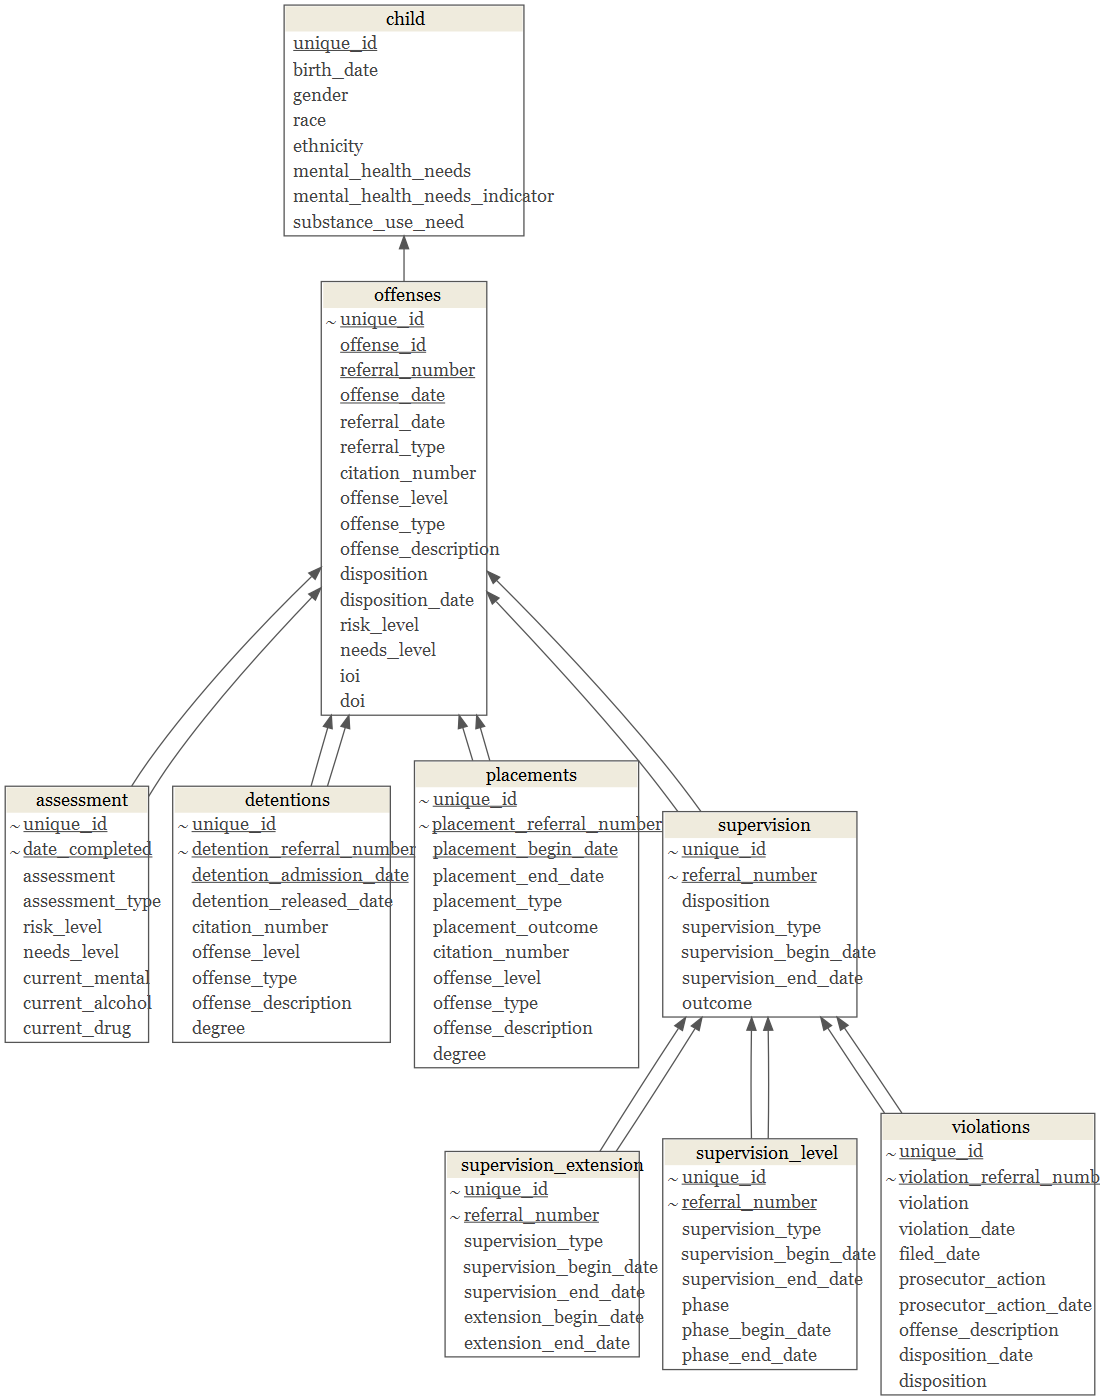
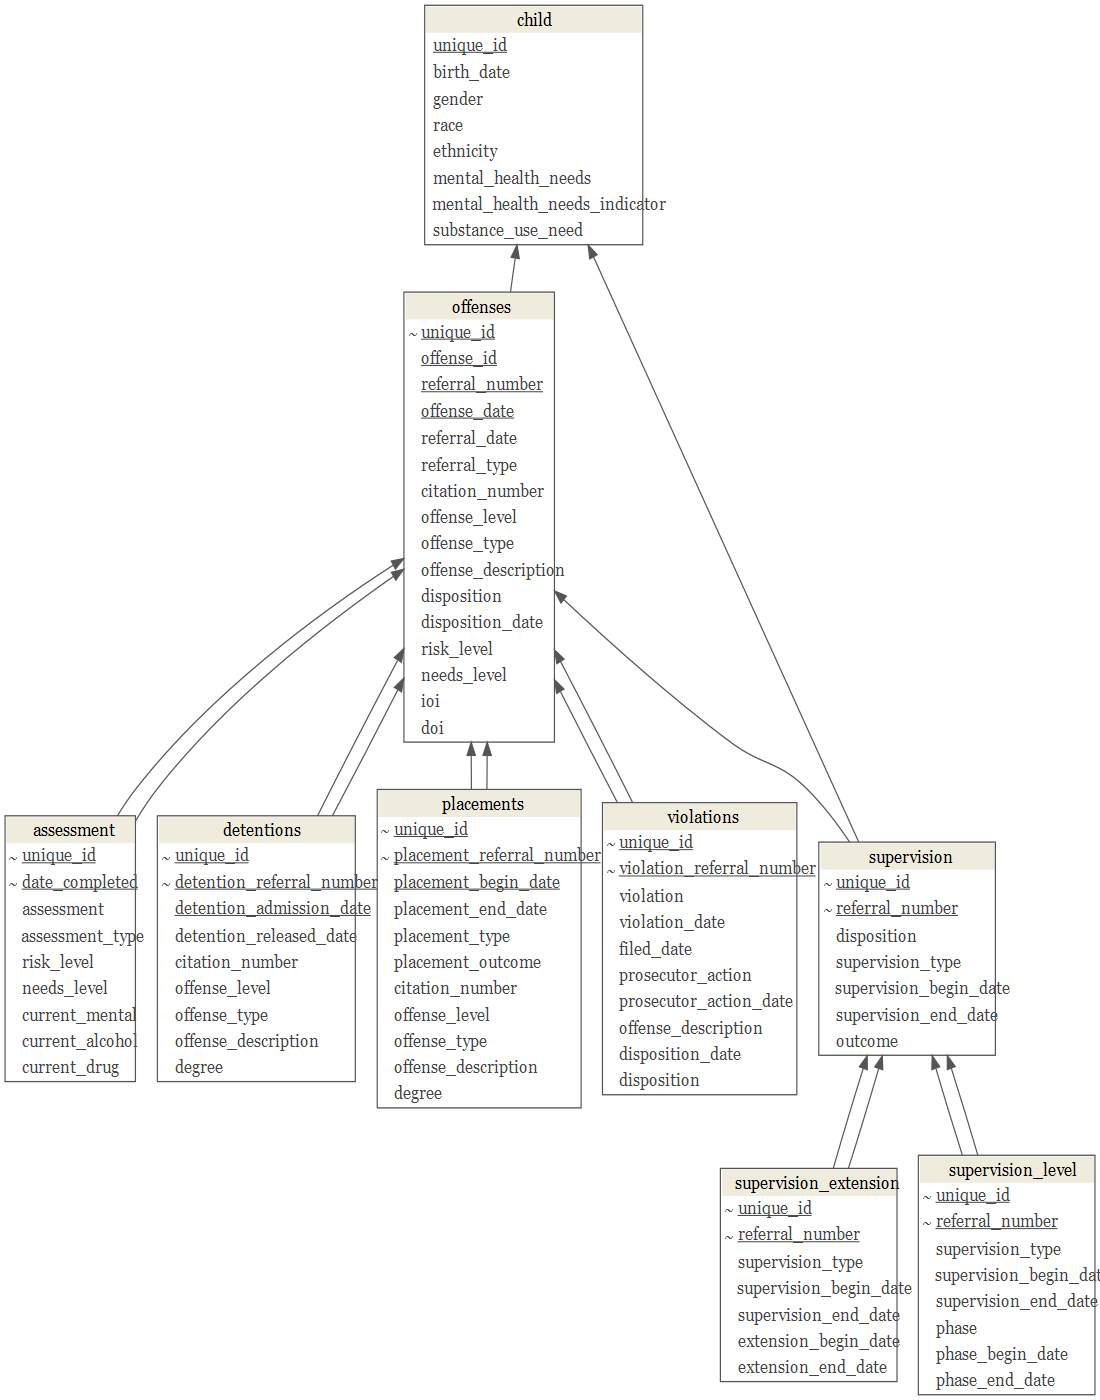
updated analytic file build syntax

diff --git a/_site/jj_av_dallas_create_analytic_files.html b/_site/jj_av_dallas_create_analytic_files.html
@@ -192,7 +192,8 @@ code span.wa { color: #60a0b0; font-weight: bold; font-style: italic; } /* Warni
   <li><a href="#join-2.-join-of-supervision_child_join_1-and-supervision_extension_clean" id="toc-join-2.-join-of-supervision_child_join_1-and-supervision_extension_clean" class="nav-link" data-scroll-target="#join-2.-join-of-supervision_child_join_1-and-supervision_extension_clean">Join 2. Join of <code>supervision_child_join_1</code> and <code>supervision_extension_clean</code></a></li>
   <li><a href="#join-3.-join-of-supervision_child_join_2-and-supervision_level_clean" id="toc-join-3.-join-of-supervision_child_join_2-and-supervision_level_clean" class="nav-link" data-scroll-target="#join-3.-join-of-supervision_child_join_2-and-supervision_level_clean">Join 3. Join of <code>supervision_child_join_2</code> and <code>supervision_level_clean</code></a></li>
   <li><a href="#join-4.-join-of-supervision_child_join_3-and-offenses_clean_de_dup" id="toc-join-4.-join-of-supervision_child_join_3-and-offenses_clean_de_dup" class="nav-link" data-scroll-target="#join-4.-join-of-supervision_child_join_3-and-offenses_clean_de_dup">Join 4. Join of <code>supervision_child_join_3</code> and <code>offenses_clean_de_dup</code></a></li>
-  <li><a href="#join-4.-join-of-supervision_child_join_4-and-violations_clean" id="toc-join-4.-join-of-supervision_child_join_4-and-violations_clean" class="nav-link" data-scroll-target="#join-4.-join-of-supervision_child_join_4-and-violations_clean">Join 4. Join of <code>supervision_child_join_4</code> and <code>violations_clean</code></a></li>
+  <li><a href="#join-4.-join-of-supervision_child_join_offenses_4-and-violations_clean" id="toc-join-4.-join-of-supervision_child_join_offenses_4-and-violations_clean" class="nav-link" data-scroll-target="#join-4.-join-of-supervision_child_join_offenses_4-and-violations_clean">Join 4. Join of <code>supervision_child_join_offenses_4</code> and <code>violations_clean</code></a></li>
+  <li><a href="#join-5.-join-of-supervision_child_join_offenses_violatons_5-and-detentions_clean" id="toc-join-5.-join-of-supervision_child_join_offenses_violatons_5-and-detentions_clean" class="nav-link" data-scroll-target="#join-5.-join-of-supervision_child_join_offenses_violatons_5-and-detentions_clean">Join 5. Join of <code>supervision_child_join_offenses_violatons_5</code> and <code>detentions_clean</code></a></li>
   </ul></li>
   </ul>
 </nav>
@@ -787,14 +788,14 @@ code span.wa { color: #60a0b0; font-weight: bold; font-style: italic; } /* Warni
 </div>
 <p><br><br></p>
 </section>
-<section id="join-4.-join-of-supervision_child_join_4-and-violations_clean" class="level2">
-<h2 class="anchored" data-anchor-id="join-4.-join-of-supervision_child_join_4-and-violations_clean">Join 4. Join of <code>supervision_child_join_4</code> and <code>violations_clean</code></h2>
+<section id="join-4.-join-of-supervision_child_join_offenses_4-and-violations_clean" class="level2">
+<h2 class="anchored" data-anchor-id="join-4.-join-of-supervision_child_join_offenses_4-and-violations_clean">Join 4. Join of <code>supervision_child_join_offenses_4</code> and <code>violations_clean</code></h2>
 <p>Using a left join only joins offense records that led to supervision/disposition to supervision. Later, should I also join just by unique_id to capture offense records which occurred during supervision? The offense file is already de-duped by referral – keeping the most serious offense – so the file will still be unique by referral, supervision period, supervision extension, and supervision level</p>
 <p><strong>Logic to double check:</strong> only keeping violation records where the violation_date&gt;=supervision_begin_date &amp; violation_date&lt;=supervision_end_date</p>
 <div class="cell">
 <div class="sourceCode cell-code" id="cb86"><pre class="sourceCode r code-with-copy"><code class="sourceCode r"><span id="cb86-1"><a href="#cb86-1" aria-hidden="true" tabindex="-1"></a><span class="do">### left join of violations_clean file to supervision_child_join_3 file </span></span>
-<span id="cb86-2"><a href="#cb86-2" aria-hidden="true" tabindex="-1"></a>supervision_child_join_offenses_4 <span class="ot">&lt;-</span> </span>
-<span id="cb86-3"><a href="#cb86-3" aria-hidden="true" tabindex="-1"></a>  <span class="fu">left_join</span>(supervision_child_join_3,</span>
+<span id="cb86-2"><a href="#cb86-2" aria-hidden="true" tabindex="-1"></a>supervision_child_join_offenses_violatons_5 <span class="ot">&lt;-</span> </span>
+<span id="cb86-3"><a href="#cb86-3" aria-hidden="true" tabindex="-1"></a>  <span class="fu">left_join</span>(supervision_child_join_offenses_4,</span>
 <span id="cb86-4"><a href="#cb86-4" aria-hidden="true" tabindex="-1"></a>            violations_clean,</span>
 <span id="cb86-5"><a href="#cb86-5" aria-hidden="true" tabindex="-1"></a>            <span class="at">by =</span> <span class="fu">c</span>(<span class="st">"unique_id"</span>)) <span class="sc">%&gt;%</span> <span class="do">### this is a many to many join so there are now lots of records (all violations joining to all supervisions/supervision extensions/supervision levels)</span></span>
 <span id="cb86-6"><a href="#cb86-6" aria-hidden="true" tabindex="-1"></a>  <span class="do">### now we need to filter on date -- only keeping violation records where the violation_date&gt;=supervision_begin_date &amp; violation_date&lt;=supervision_end_date</span></span>
@@ -803,7 +804,8 @@ code span.wa { color: #60a0b0; font-weight: bold; font-style: italic; } /* Warni
 <span id="cb86-9"><a href="#cb86-9" aria-hidden="true" tabindex="-1"></a>                                       <span class="fu">ymd</span>(<span class="fu">as_date</span>(<span class="st">"2030-01-01"</span>)),</span>
 <span id="cb86-10"><a href="#cb86-10" aria-hidden="true" tabindex="-1"></a>                                       <span class="fu">ymd</span>(<span class="fu">as_date</span>(supervision_end_date))),</span>
 <span id="cb86-11"><a href="#cb86-11" aria-hidden="true" tabindex="-1"></a>         <span class="at">supervision_end_date_missing_include =</span> <span class="fu">ymd</span>(<span class="fu">as_date</span>(supervision_end_date_missing_include))) <span class="sc">%&gt;%</span> </span>
-<span id="cb86-12"><a href="#cb86-12" aria-hidden="true" tabindex="-1"></a>  <span class="fu">filter</span>(violation_date<span class="sc">&gt;=</span>supervision_begin_date <span class="sc">&amp;</span> violation_date<span class="sc">&lt;=</span>supervision_end_date_missing_include) <span class="do">### we've removed about a third of the records; need to spot check dataframe to make sure things look right </span></span></code><button title="Copy to Clipboard" class="code-copy-button"><i class="bi"></i></button></pre></div>
+<span id="cb86-12"><a href="#cb86-12" aria-hidden="true" tabindex="-1"></a>  <span class="do">### we're removing about a third of the records; need to spot check dataframe to make sure things look right </span></span>
+<span id="cb86-13"><a href="#cb86-13" aria-hidden="true" tabindex="-1"></a>  <span class="fu">filter</span>(violation_date<span class="sc">&gt;=</span>supervision_begin_date <span class="sc">&amp;</span> violation_date<span class="sc">&lt;=</span>supervision_end_date_missing_include)  </span></code><button title="Copy to Clipboard" class="code-copy-button"><i class="bi"></i></button></pre></div>
 <div class="cell-output cell-output-stderr">
 <pre><code>left_join: added 9 columns (violation_referral_number, violation, violation_date, violation_filed_date, violation_prosectur_action, …)</code></pre>
 </div>
@@ -828,6 +830,30 @@ code span.wa { color: #60a0b0; font-weight: bold; font-style: italic; } /* Warni
 <div class="cell-output cell-output-stderr">
 <pre><code>filter: removed 30,363 rows (26%), 84,828 rows remaining</code></pre>
 </div>
+<div class="sourceCode cell-code" id="cb95"><pre class="sourceCode r code-with-copy"><code class="sourceCode r"><span id="cb95-1"><a href="#cb95-1" aria-hidden="true" tabindex="-1"></a>  <span class="do">### now pivot violation records wide to keep same number of records as in previous file </span></span></code><button title="Copy to Clipboard" class="code-copy-button"><i class="bi"></i></button></pre></div>
+</div>
+<p><br><br></p>
+<p>HEREHEREHERE</p>
+</section>
+<section id="join-5.-join-of-supervision_child_join_offenses_violatons_5-and-detentions_clean" class="level2">
+<h2 class="anchored" data-anchor-id="join-5.-join-of-supervision_child_join_offenses_violatons_5-and-detentions_clean">Join 5. Join of <code>supervision_child_join_offenses_violatons_5</code> and <code>detentions_clean</code></h2>
+<p>Using a left join only joins offense records that led to supervision/disposition to supervision. Later, should I also join just by unique_id to capture offense records which occurred during supervision? The offense file is already de-duped by referral – keeping the most serious offense – so the file will still be unique by referral, supervision period, supervision extension, and supervision level</p>
+<p><strong>Logic to double check:</strong> only keeping violation records where the violation_date&gt;=supervision_begin_date &amp; violation_date&lt;=supervision_end_date</p>
+<div class="cell">
+<div class="sourceCode cell-code" id="cb96"><pre class="sourceCode r code-with-copy"><code class="sourceCode r"><span id="cb96-1"><a href="#cb96-1" aria-hidden="true" tabindex="-1"></a><span class="do">### left join of violations_clean file to supervision_child_join_3 file </span></span>
+<span id="cb96-2"><a href="#cb96-2" aria-hidden="true" tabindex="-1"></a>supervision_child_join_offenses_4 <span class="ot">&lt;-</span> </span>
+<span id="cb96-3"><a href="#cb96-3" aria-hidden="true" tabindex="-1"></a>  <span class="fu">left_join</span>(supervision_child_join_offenses_violatons_5,</span>
+<span id="cb96-4"><a href="#cb96-4" aria-hidden="true" tabindex="-1"></a>            violations_clean,</span>
+<span id="cb96-5"><a href="#cb96-5" aria-hidden="true" tabindex="-1"></a>            <span class="at">by =</span> <span class="fu">c</span>(<span class="st">"unique_id"</span>)) <span class="sc">%&gt;%</span> <span class="do">### this is a many to many join so there are now lots of records (all violations joining to all supervisions/supervision extensions/supervision levels)</span></span>
+<span id="cb96-6"><a href="#cb96-6" aria-hidden="true" tabindex="-1"></a>  <span class="do">### now we need to filter on date -- only keeping violation records where the violation_date&gt;=supervision_begin_date &amp; violation_date&lt;=supervision_end_date</span></span>
+<span id="cb96-7"><a href="#cb96-7" aria-hidden="true" tabindex="-1"></a>  <span class="do">### first create fake end date for records where the end date is blank; since this indicates that supervision was ongoing at time of data pull, we still want to include violations that occurred so changing NA to '2030-01-01' in new variable for the following filter</span></span>
+<span id="cb96-8"><a href="#cb96-8" aria-hidden="true" tabindex="-1"></a>  <span class="fu">mutate</span>(<span class="at">supervision_end_date_missing_include =</span> <span class="fu">ifelse</span>(<span class="fu">is.na</span>(supervision_end_date)<span class="sc">==</span><span class="cn">TRUE</span>,</span>
+<span id="cb96-9"><a href="#cb96-9" aria-hidden="true" tabindex="-1"></a>                                       <span class="fu">ymd</span>(<span class="fu">as_date</span>(<span class="st">"2030-01-01"</span>)),</span>
+<span id="cb96-10"><a href="#cb96-10" aria-hidden="true" tabindex="-1"></a>                                       <span class="fu">ymd</span>(<span class="fu">as_date</span>(supervision_end_date))),</span>
+<span id="cb96-11"><a href="#cb96-11" aria-hidden="true" tabindex="-1"></a>         <span class="at">supervision_end_date_missing_include =</span> <span class="fu">ymd</span>(<span class="fu">as_date</span>(supervision_end_date_missing_include))) <span class="sc">%&gt;%</span> </span>
+<span id="cb96-12"><a href="#cb96-12" aria-hidden="true" tabindex="-1"></a>  <span class="do">### we're removing about a third of the records; need to spot check dataframe to make sure things look right </span></span>
+<span id="cb96-13"><a href="#cb96-13" aria-hidden="true" tabindex="-1"></a>  <span class="fu">filter</span>(violation_date<span class="sc">&gt;=</span>supervision_begin_date <span class="sc">&amp;</span> violation_date<span class="sc">&lt;=</span>supervision_end_date_missing_include)  </span>
+<span id="cb96-14"><a href="#cb96-14" aria-hidden="true" tabindex="-1"></a>  <span class="do">### now pivot violation records wide to keep same number of records as in previous file </span></span></code><button title="Copy to Clipboard" class="code-copy-button"><i class="bi"></i></button></pre></div>
 </div>
 <p><br><br></p>
 

diff --git a/_site/jj_av_dallas_questions_updates.html b/_site/jj_av_dallas_questions_updates.html
@@ -160,6 +160,12 @@ ul.task-list li input[type="checkbox"] {
 <li><p>Do missing supervision outcomes and supervision end dates indicate youth was under supervision at time of data pull?</p></li>
 <li><p>Can we use <code>supervision_level</code> for placement information?</p></li>
 <li><p>How should we interpret violation records without prosecutor actions or prosecutor action dates?</p></li>
+<li><p>How should we interpret overlapping supervision and detention dates (e.g.&nbsp;the supervision begin date starts several weeks before a detention end date)?</p></li>
+<li><p>Should I use IOI/DOI for de-duplicating offense file? How well does this map onto the logic I’ve already built out?</p></li>
+<li><p>Why is the violation disposition date the same across multiple violations over time?</p></li>
+<li><p>Is there a way to see the original supervision end date at time of initial disposition? (i.e., before any violations or extensions to supervision)</p></li>
+<li><p>Do you all have (and do we need..) a data dictionary for the phase values in the supervision level file? (e.g., ISP level 1, prob level R2, etc.)</p></li>
+<li><p>Referral ID, in supervision level and extension files, appears to link back to original referral leading to first supervision disposition – whereas the referral IDs in the violations, detentions, and placements files seems to link to the most recent referral (in the offense file) that directly pertains to that given violation, detention, or placement. Is this understanding correct? If so, is it okay to join records from these files back to the supervision file via unique youth ID and dates (i.e., if a given placement occurred during a youth’s supervision, then it is joined to that supervision?)</p></li>
 </ul>
 <p><br></p>
 

diff --git a/_site/data_diagram/jj_av_dallas_data_diagram_build.html b/_site/data_diagram/jj_av_dallas_data_diagram_build.html
@@ -61,7 +61,7 @@ ul.task-list li input[type="checkbox"] {
 }</script>
 
 
-<link rel="stylesheet" href="styles.css">
+<link rel="stylesheet" href="../styles.css">
 </head>
 
 <body class="floating nav-fixed">
@@ -83,6 +83,10 @@ ul.task-list li input[type="checkbox"] {
   <li class="nav-item">
     <a class="nav-link" href="../index.html">
  <span class="menu-text">Project and Analysis Plan</span></a>
+  </li>  
+  <li class="nav-item">
+    <a class="nav-link" href="../jj_av_dallas_create_analytic_files.html">
+ <span class="menu-text">Analytic Files</span></a>
   </li>  
   <li class="nav-item">
     <a class="nav-link" href="../jj_av_dallas_questions_updates.html">
